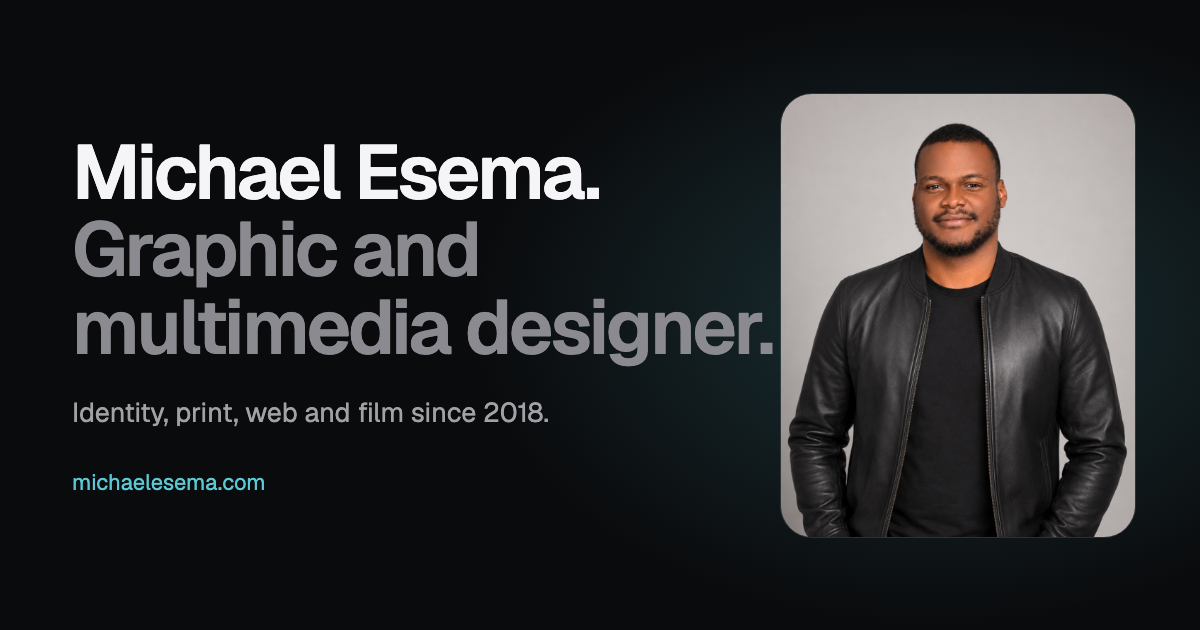
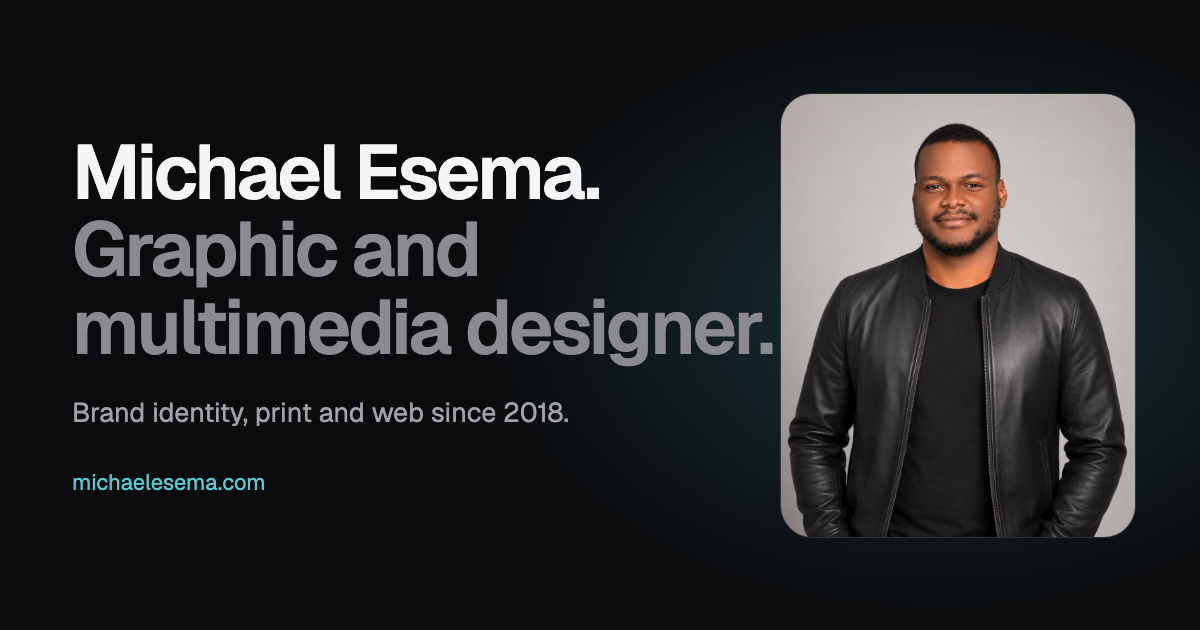
Apply Sonnet and Opus review: remove stale claims, disclose generated imagery
- Remove every short-film and studio reference left after the films
  section was cut (meta description, JSON-LD, llms.txt, ledger, share card)
- Silent Party: exact years instead of 'five years', and the same
  description as the About page
- State on the home page that print and product pieces are mock-ups, and
  under the hero that the illustration and animation are generated
- Standardise the hotel name; drop 'open to work anywhere'; soften the
  Lean Six Sigma line; preload the image the hero actually uses

Claude-Session: https://claude.ai/code/session_01RUEys33HMHQzB9QyZQiF2S

Changed region(s): [[0.0617, 0.6333, 0.4933, 0.6937]]

diff --git a/index.html b/index.html
@@ -4,7 +4,7 @@
   <meta charset="UTF-8"/>
   <meta name="viewport" content="width=device-width, initial-scale=1.0"/>
   <title>Michael Esema | Graphic and Multimedia Designer</title>
-  <meta name="description" content="Michael Esema is a graphic and multimedia designer. Designing since 2018: brand identity, print, social, web and short film. BSc Accounting, MBA, MSc International Business Management (Merit)."/>
+  <meta name="description" content="Michael Esema is a graphic and multimedia designer. Designing since 2018: brand identity, print, social and web. BSc Accounting, MBA, MSc International Business Management (Merit)."/>
   <meta name="author" content="Michael Esema"/>
   <meta name="robots" content="index, follow, max-image-preview:large"/>
   <meta name="theme-color" content="#dfeadb"/>
@@ -17,7 +17,7 @@
   <link rel="preconnect" href="https://fonts.googleapis.com"/>
   <link rel="preconnect" href="https://fonts.gstatic.com" crossorigin/>
   <link href="https://fonts.googleapis.com/css2?family=Bricolage+Grotesque:opsz,wght@12..96,400..800&display=swap" rel="stylesheet"/>
-  <link rel="preload" as="image" href="/michael-esema-portrait.jpg"/>
+  <link rel="preload" as="image" href="/michael-esema-illustrated.jpg"/>
 
   <meta property="og:title" content="Michael Esema | Graphic and Multimedia Designer"/>
   <meta property="og:description" content="Brand identity, print, web and motion design, with an accountant's discipline."/>
@@ -52,7 +52,7 @@
         "name": "Graphic and Multimedia Designer",
         "skills": "Brand identity, logo design, print and editorial layout, web design, social media graphics, video editing, art direction"
       },
-      "description": "Michael Esema is a graphic and multimedia designer based in the United Kingdom. He has designed brand identities, print and social content since 2018, and now also websites and short films. He holds a BSc in Accounting, an MBA and an MSc in International Business Management.",
+      "description": "Michael Esema is a graphic and multimedia designer based in the United Kingdom. He has designed brand identities, print and social content since 2018, and now also websites. He holds a BSc in Accounting, an MBA and an MSc in International Business Management.",
       "knowsAbout": ["Graphic design","Brand identity","Logo design","Typography","Editorial design","Print design","Web design","UI design","Social media design","Video editing","Art direction","Adobe Photoshop","Adobe Illustrator","Adobe InDesign","Figma","Canva","CapCut","Blender"],
       "url": "https://michaelesema.com",
       "image": "https://michaelesema.com/michael-esema-portrait.jpg",

diff --git a/src/work.ts b/src/work.ts
@@ -46,9 +46,9 @@ export const PROJECTS: Project[] = [
     discipline: 'Event branding, social, website',
     years: '2018 to 2023, and 2026',
     role: 'Design lead',
-    summary: 'Design lead for a silent-disco events brand in Nigeria, part-time for five years, and now its new booking site.',
+    summary: 'Design lead, part-time, for a silent-disco events brand in Nigeria from 2018 to 2023, and now its new booking site.',
     body: [
-      'Silent Party 9ja runs headphone parties: three DJs, three channels, and every guest picks their own. I led design for the brand part-time from 2018 to February 2023, working with the team on event flyers and social posts. That work belongs to the brand and is published on its Instagram.',
+      'Silent Party 9ja runs headphone parties: three DJs, three channels, and every guest picks their own. I led design for the brand part-time from 2018 to February 2023, working with the team on its visual identity and promotional materials. That work belongs to the brand and is published on its Instagram.',
       'In 2026 I began a new identity and booking site for them. Each channel owns one colour and only one is ever live at a time, so the page changes colour as you turn the dial. It is in development.',
     ],
     cover: { src: '/work/sp-board.jpg', alt: 'The new Silent Party 9ja site on a tablet and a phone, lit in pink', ratio: '16 / 10' },
@@ -105,7 +105,7 @@ export const PROJECTS: Project[] = [
     role: 'Founder and designer',
     summary: 'Brand and website for a security start-up I founded.',
     body: [
-      'Mykei is a security start-up I founded. I designed its identity and its website, and set a rule that every colour on the site comes from one file, after an early version drifted into five slightly different golds.',
+      'Mykei Securities is a security technology start-up I founded. I designed its identity and its website, and set a rule that every colour on the site comes from one file, after an early version drifted into five slightly different golds.',
       'The result is nine colours, all checked for contrast, used the same way on every page.',
     ],
     cover: { src: '/work/mykei-securities-site.png', alt: 'The mykei.io homepage', ratio: '16 / 9' },

diff --git a/src/pages/ProjectPage.tsx b/src/pages/ProjectPage.tsx
@@ -55,13 +55,13 @@ export default function ProjectPage() {
           </div>
 
           {/scene|board|merch/.test(p.cover.src) && (
-            <p className="label" style={{ marginTop: 12 }}>Shown as a mock-up. The artwork is mine; the setting is generated.</p>
+            <p className="label" style={{ marginTop: 12 }}>Pieces photographed in a setting are mock-ups. The artwork is mine; the settings are generated.</p>
           )}
 
           {p.shots.length > 0 && (
             <div className="proj-shots" style={{ display: 'grid', gridTemplateColumns: '1fr 1fr', gap: 'clamp(12px, 1.6vw, 24px)', marginTop: 'clamp(12px, 1.6vw, 24px)' }}>
               {p.shots.map(s => (
-                <div key={s.src} className="plate" style={{ aspectRatio: s.ratio, gridColumn: s.span === 2 ? '1 / -1' : undefined, maxWidth: s.span === 2 && s.fit === 'contain' ? 760 : undefined, justifySelf: s.span === 2 && s.fit === 'contain' ? 'center' : undefined, width: '100%' }}>
+                <div key={s.src} className="plate" title={/scene|board|merch/.test(s.src) ? 'Mock-up: my artwork on a generated setting' : undefined} style={{ aspectRatio: s.ratio, gridColumn: s.span === 2 ? '1 / -1' : undefined, maxWidth: s.span === 2 && s.fit === 'contain' ? 760 : undefined, justifySelf: s.span === 2 && s.fit === 'contain' ? 'center' : undefined, width: '100%' }}>
                   <img src={s.src} alt={s.alt} loading="lazy" style={s.fit === 'contain' ? { objectFit: 'contain', background: s.src.includes('mobile') ? 'var(--bg-raised)' : 'var(--paper)', padding: s.src.includes('mobile') ? '6%' : 0 } : { objectPosition: 'top' }} />
                 </div>
               ))}

diff --git a/src/components/Ledger.tsx b/src/components/Ledger.tsx
@@ -14,11 +14,11 @@ const ROWS = [
   {
     year: '2024', award: 'MSc International Business Management, Merit', school: 'Manchester Metropolitan University',
     does: 'Design that travels. Work made for Nigerian and British audiences at once, without either one feeling translated.',
-    see: 'Sarah Bellus, Silent Party 9ja, the short films',
+    see: 'Sarah Bellus, Silent Party 9ja',
   },
   {
     year: '2025', award: 'Lean Six Sigma', school: 'Certification',
-    does: 'Templates, type scales and a single colour file, so the tenth piece is as consistent as the first.',
+    does: 'Templates and a single colour file, so the tenth piece is as consistent as the first.',
     see: 'The Signal issue system, the colour file behind mykei.io',
   },
 ]

diff --git a/src/components/Footer.tsx b/src/components/Footer.tsx
@@ -2,7 +2,7 @@ export default function Footer() {
   return (
     <footer style={{ borderTop: '1px solid var(--border)', padding: '28px 0' }}>
       <div className="wrap" style={{ display: 'flex', justifyContent: 'space-between', gap: 16, flexWrap: 'wrap', font: '400 15px/1.3 var(--font-sans)', color: 'var(--text-muted)' }}>
-        <span>{new Date().getFullYear()}</span>
+        <span>{new Date().getFullYear()} Michael Esema</span>
         <a href="/privacy" style={{ color: 'var(--text-muted)', textDecoration: 'underline', textUnderlineOffset: 4 }}>Privacy</a>
       </div>
     </footer>

diff --git a/src/components/WorkIndex.tsx b/src/components/WorkIndex.tsx
@@ -29,6 +29,9 @@ export default function WorkIndex() {
           </Link>
         )
       })}
+      <p className="label" style={{ gridColumn: '1 / -1', maxWidth: '62ch' }}>
+        Print and product pieces are shown as mock-ups: the artwork is mine, the settings are generated.
+      </p>
       <style>{`
         .work-item { position: relative; }
         .work-item:hover .work-title { text-decoration: underline; text-underline-offset: 7px; text-decoration-thickness: 2px; }

diff --git a/functions/_middleware.js b/functions/_middleware.js
@@ -13,7 +13,7 @@ const ROUTE_META = {
   },
   '/work/silent-party-9ja': {
     title: 'Silent Party 9ja | Michael Esema',
-    description: 'Design lead for a silent-disco events brand in Nigeria, part-time for five years, and now its new booking site.',
+    description: 'Design lead, part-time, for a silent-disco events brand in Nigeria from 2018 to 2023, and now its new booking site.',
   },
   '/work/bs-hive': {
     title: "B's Hive Hotels & Suites | Michael Esema",

diff --git a/src/components/Hero.tsx b/src/components/Hero.tsx
@@ -22,6 +22,7 @@ export default function Hero() {
               aria-label="An illustrated Michael Esema waving" />
             <img className="still" src="/michael-esema-illustrated.jpg" alt="An illustrated portrait of Michael Esema" width={896} height={1120} />
           </div>
+          <p className="label" style={{ fontSize: 14, marginTop: 14 }}>Illustration and animation generated from my photograph.</p>
         </div>
       </div>
       <style>{`
